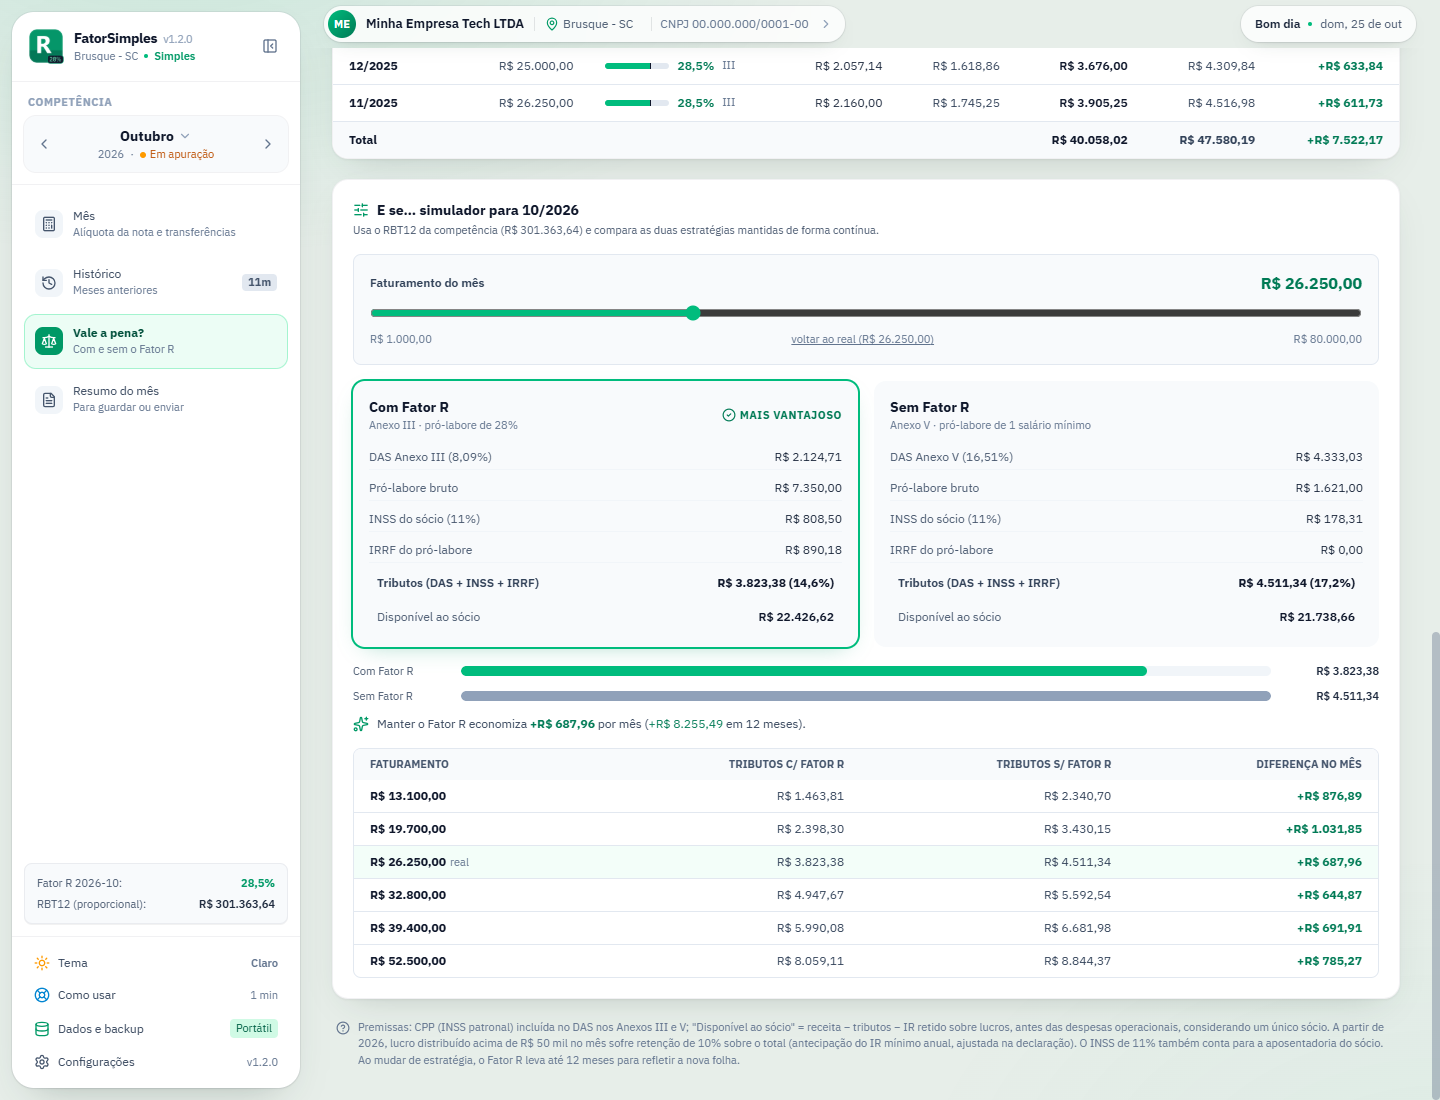
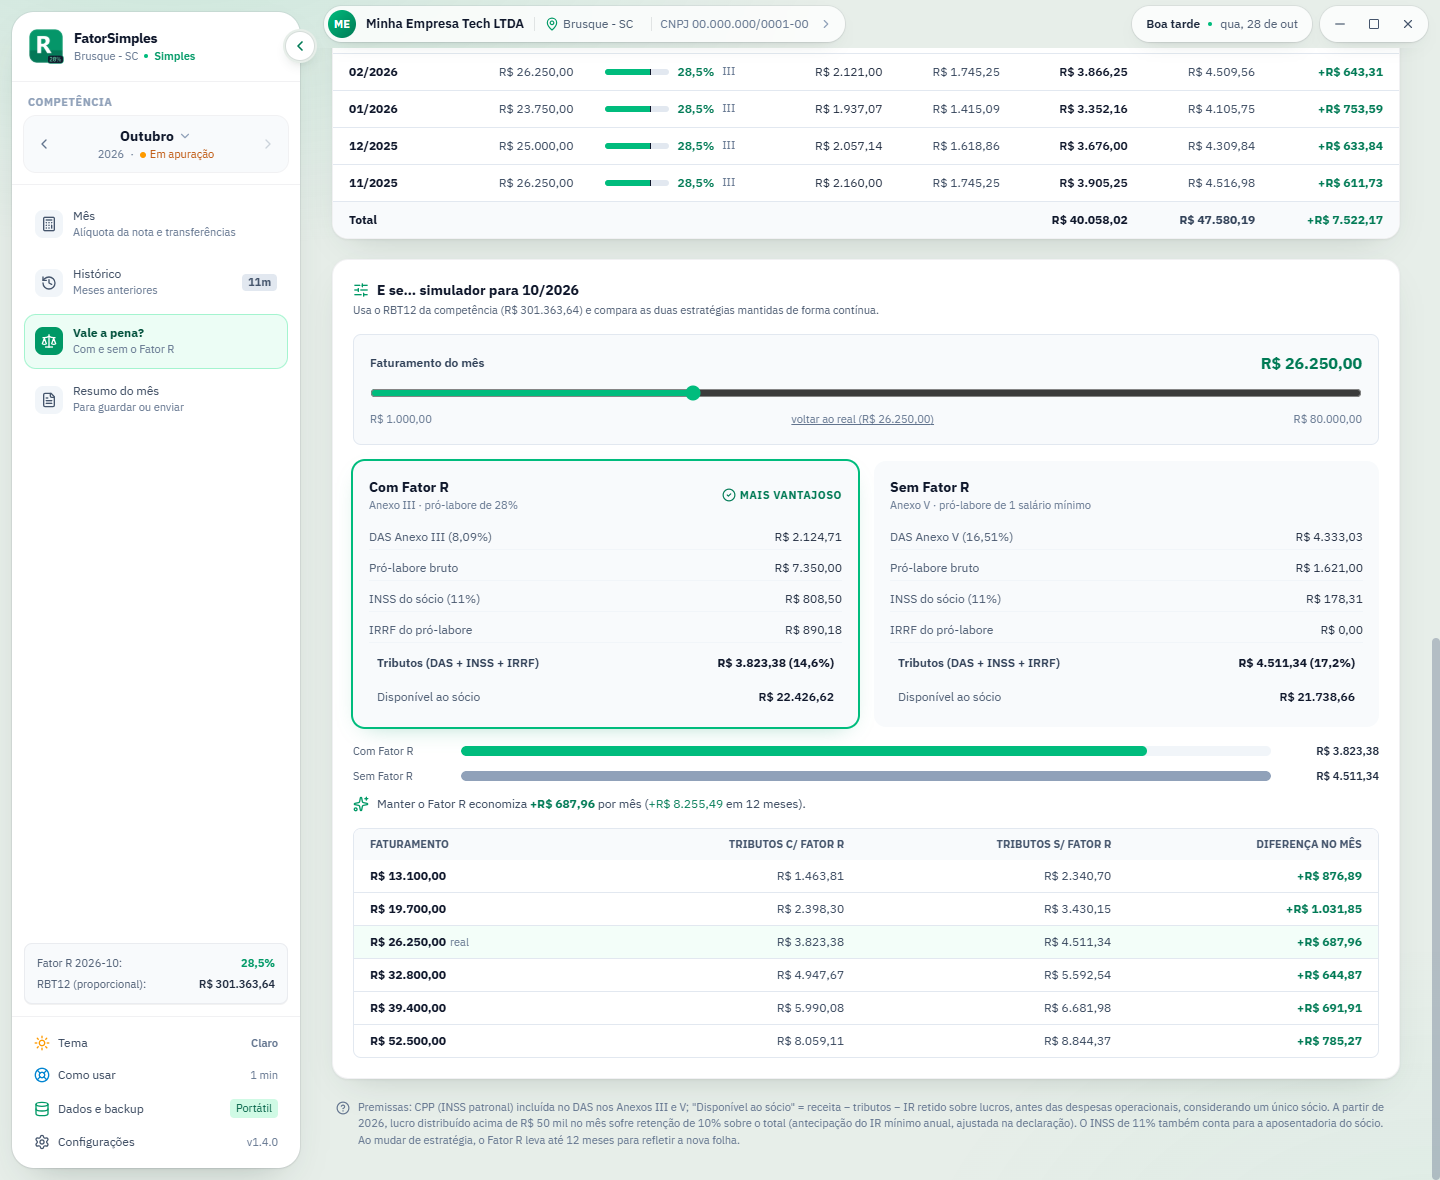
docs: README e imagens atualizados para a 1.4.0
- Aviso de versão nova a cada abertura, no rodapé do menu (Baixar, Mais tarde, Ignorar)
- Tela de carregamento do portátil, botões da janela, botão redondo do menu e tutorial guardado com os dados
- Capturas e animação refeitas com a interface atual

diff --git a/README.md b/README.md
@@ -83,7 +83,8 @@ Na prática, isso vira uma conta que precisa ser feita todo mês: qual alíquota
 
 ### 🧾 Tabelas e regras atualizadas
 - Tabelas oficiais por competência: salário mínimo, teto do INSS e IRRF (2024 a 2027)
-- **Atualização pelo GitHub:** o app já vem com as tabelas e confere se há tabelas novas (no máximo uma vez por dia). Também avisa quando sai uma versão nova do app
+- **Tabelas pelo GitHub:** o app já vem com as tabelas e confere se há tabelas novas, no máximo uma vez por dia
+- **Aviso de versão nova:** a cada abertura, o app confere se saiu uma versão nova e avisa no rodapé do menu, com **Baixar no GitHub**, **Mais tarde** (até a próxima abertura) e **Ignorar esta versão** (só volta a avisar com outra mais nova)
 - **Lei 15.270/2025:** redução do IRRF até R$ 7.350 e retenção de 10% sobre lucros acima de R$ 50 mil/mês
 - Regras da Resolução CGSN 140/2018 para folha ou receita zeradas
 - **Resumo do mês** pronto para imprimir, salvar em PDF ou mandar para a contabilidade
@@ -97,15 +98,16 @@ Na prática, isso vira uma conta que precisa ser feita todo mês: qual alíquota
 - **Tutorial guiado** na primeira abertura, em 1 minuto, com a opção de explorar sozinho
 - Cada tela se apresenta na primeira visita, e o botão **Como usar** mostra o passo a passo da tela atual
 - Depois de atualizar o app, só as **novidades** aparecem, uma vez
+- O que o tutorial já mostrou fica guardado junto com os dados: um banco novo começa o tutorial de novo
 
 </td>
 <td valign="top">
 
 ### 🎨 Interface
 - Tema **claro** por padrão e **escuro** a um clique, com a troca animada a partir do botão
-- Menu lateral recolhível, que lembra a sua escolha
+- Menu lateral recolhível pelo botão redondo na borda, e que lembra a sua escolha
 - Animações suaves e sons sutis (ligados por padrão), que podem ser desligados nas Configurações
-- Barra de título própria, com os dados da empresa a um clique
+- Barra de título própria, com os dados da empresa a um clique e os botões de minimizar, maximizar e fechar no visual do app
 
 </td>
 </tr>
@@ -232,7 +234,7 @@ Baixe o arquivo do seu sistema em [**Releases**](https://github.com/leandrotsamp
 2. Para atualizar, rode o instalador da versão nova. Ele instala por cima, fecha o app se estiver aberto e mantém os seus dados
 3. Os dados ficam em `%APPDATA%\FatorSimples` e continuam lá mesmo se você desinstalar o app
 
-**Portátil.** Não instala nada, mas demora mais para abrir, porque descompacta o app a cada abertura.
+**Portátil.** Não instala nada, mas demora mais para abrir, porque descompacta o app a cada abertura. Enquanto isso, mostra uma tela de carregamento.
 
 1. Coloque o `.exe` numa pasta sua, por exemplo `Documentos\FatorSimples`, e abra
 2. Para atualizar, troque só o `.exe` e mantenha o `fatorsimples.sqlite` ao lado
